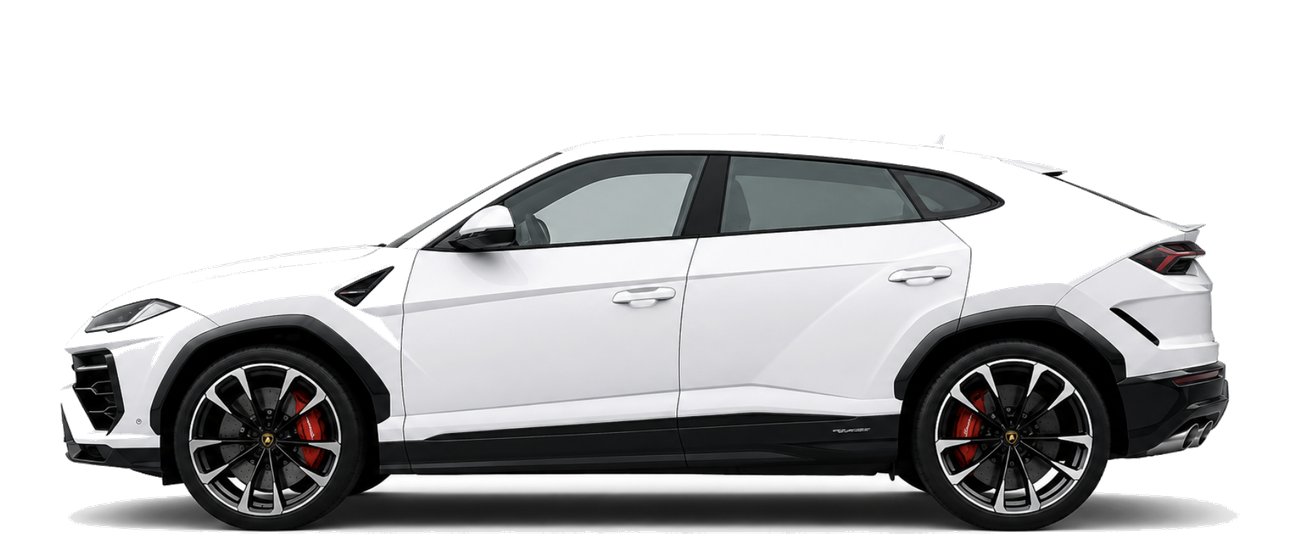
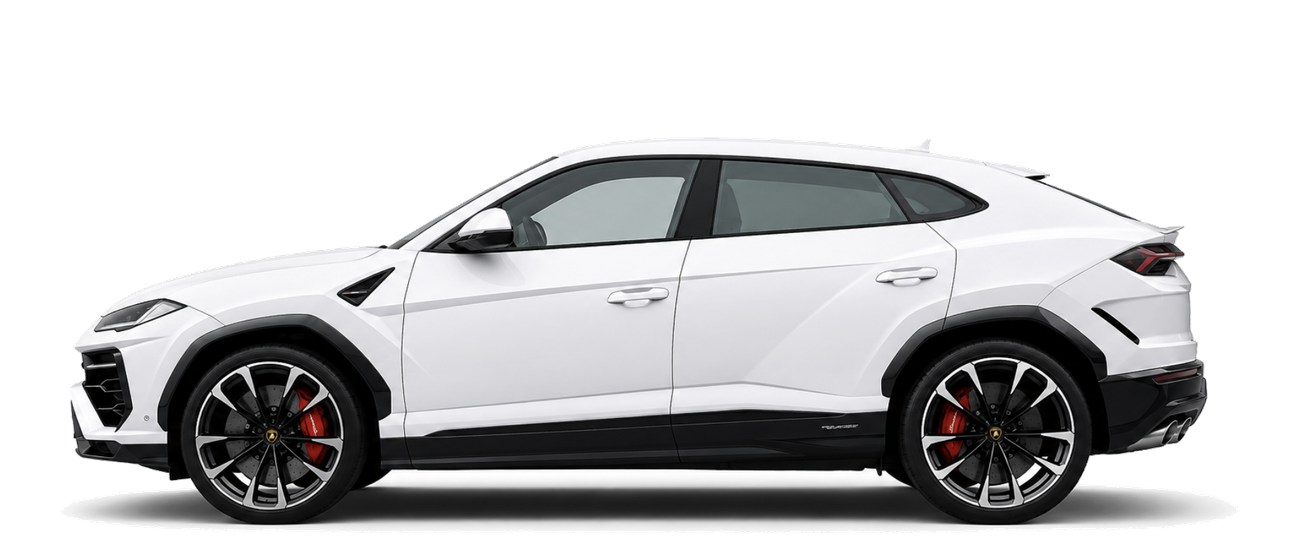
fix(BT mock): ウルス切抜きを閾値調整で修正(黒穴解消)+Bクラス以下(ミニバン/セダン/コンパクト系)をギャラリーから削除=ラグジュアリー6台に

diff --git a/hourly-mock.html b/hourly-mock.html
@@ -146,11 +146,7 @@ var CATS=[
   {cat:"ラグジュアリー",nm:"Mercedes-AMG G-Class",mk:"Mercedes-Benz",img:"images/car-gclass.png",p:{3:40000,6:55000,12:80000,24:100000},add:12000,av:"ok"},
   {cat:"ラグジュアリー",nm:"E-Class カブリオレ",mk:"Mercedes-Benz",img:"images/car-eclass.png",p:{3:38000,6:52000,12:76000,24:95000},add:12000,av:"ok"},
   {cat:"ラグジュアリー",nm:"Evoque コンバーチブル",mk:"Land Rover",img:"images/car-evoque.png",p:{3:36000,6:50000,12:72000,24:90000},add:10000,av:"ok"},
-  {cat:"ラグジュアリーミニバン",nm:"アルファード エグゼクティブ",mk:"Toyota",img:"images/car-alphard.png",p:{3:24000,6:30750,12:43050,24:45750},add:6000,av:"ok"},
-  {cat:"ミニバン",nm:"ノア / ヴォクシー",mk:"Toyota",emo:"🚐",p:{3:7600,6:9800,12:11800,24:13000},add:4500,av:"ok"},
-  {cat:"セダン",nm:"ハリアー",mk:"Toyota",emo:"🚗",p:{3:6000,6:8000,12:9800,24:11000},add:3000,av:"ok"},
-  {cat:"コンパクトSUV",nm:"ライズ / ヤリスクロス",mk:"Toyota",emo:"🚙",p:{3:4000,6:5000,12:6000,24:8000},add:1000,av:"ok"},
-  {cat:"コンパクト",nm:"ヤリス / パッソ",mk:"Toyota",emo:"🚗",p:{3:3200,6:4500,12:5250,24:7000},add:700,av:"ok"}
+  {cat:"ラグジュアリーミニバン",nm:"アルファード エグゼクティブ",mk:"Toyota",img:"images/car-alphard.png",p:{3:24000,6:30750,12:43050,24:45750},add:6000,av:"ok"}
 ];
 var carIdx=-1, slot=3, dur=0;
 var yen=function(n){return "¥"+n.toLocaleString();};
